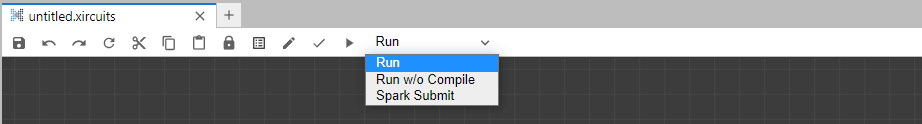
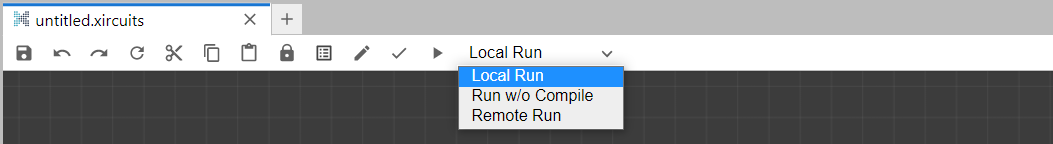
updated interface docs

diff --git a/docs/getting-started/xircuits-interface.md b/docs/getting-started/xircuits-interface.md
@@ -7,9 +7,17 @@ sidebar_position: 1
 Xircuits is built on Jupyterlab, you will see a lot of familiar data scientist related tools. The following section introduces you to the Xircuits related interfaces. For the full Jupyterlab interface exploration, you may refer to the [Jupyterlab documentation](https://jupyterlab.readthedocs.io/en/stable/user/interface.html).
 
 
-## Starting Xircuits
+## Launching Xircuits
 
-You can open the Xircuits workflow canvas in two ways:
+You can launch Xircuits by running:
+
+```
+$ xircuits
+```
+
+## Starting a Xircuits Canvas
+
+You can start the Xircuits workflow canvas in two ways:
 1. Opening an existing .xircuits file.
 2. Creating a new Xircuits canvas via launcher.
 
@@ -45,9 +53,9 @@ The Xircuits toolbar is displayed on top of every Xircuits canvas. From left to 
 11. **Compile**: Codegens a python script based on current canvas. 
 12. **Save and Run**: Executes the generated python script on the Python kernel based on Run Options.
 13. **Xircuits Run Options**
-    - **Run**: Saves, compiles, and executes Xircuits canvas.
+    - **Local Run**: Saves, compiles, and executes Xircuits canvas locally.
     - **Run w/o Compile**: Saves current canvas but does not compile the python script. Executes python script with the same filename as the .xircuits file.
-    - **Spark Submit**: Saves, compiles, then performs a cmd-based Spark Submit. For more information, read Spark Submit.
+    - **Remote Run**: Saves, compiles, then performs a cmd-based remote run. Used often for Spark Submit. For more information, read [Remote Run](../references/remote-run.md).
     
 ### Right Click Context Menu
 
@@ -64,7 +72,7 @@ You can open the context menu via right click.
 7. **Delete**: Deletes component(s).
 8. **Undo**: Goes back one step.
 9. **Redo**: Goes forward one step.
-10. **Add Comment**: Inserts a `Comment Component`.
+10. **Add Comment**: Inserts a [`Comment Component`](../references/special-components.md#comment-component).
 
 
 ### Component Related Interface
@@ -96,7 +104,3 @@ You can access the component library tray by selecting the block icon.
 3. **Xircuits Component List**
     - [General Components](../technical-concepts/xircuits-components/getting-started-with-xircuits-components.md#general-components) - general purpose components.
     - [Component Libraries](../technical-concepts/xircuits-components/getting-started-with-xircuits-components.md#xircuits-library-components) - Component libraries and components from the various component libraries.
-
-## Read More:
-- [The Jupyterlab Interface](https://jupyterlab.readthedocs.io/en/stable/user/interface.html)
-- [Xircuits Components](../technical-concepts/xircuits-components/getting-started-with-xircuits-components.md)
